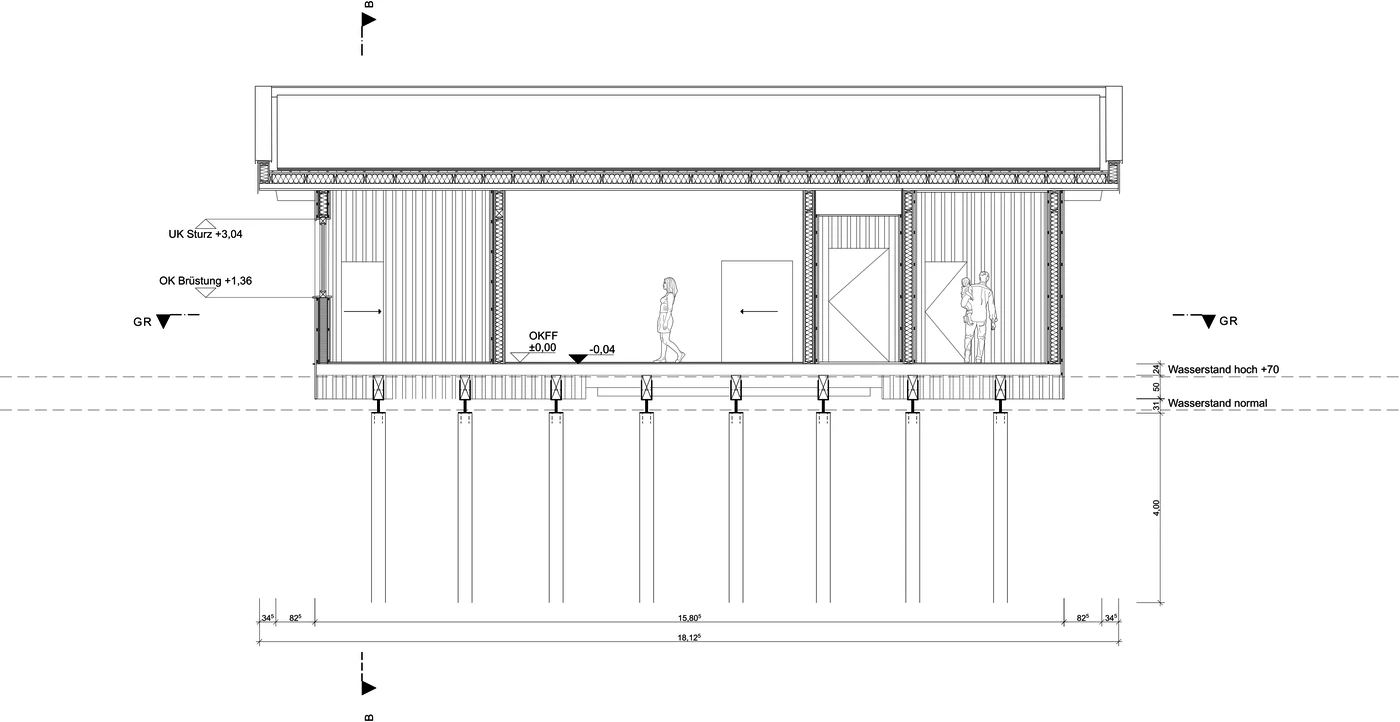
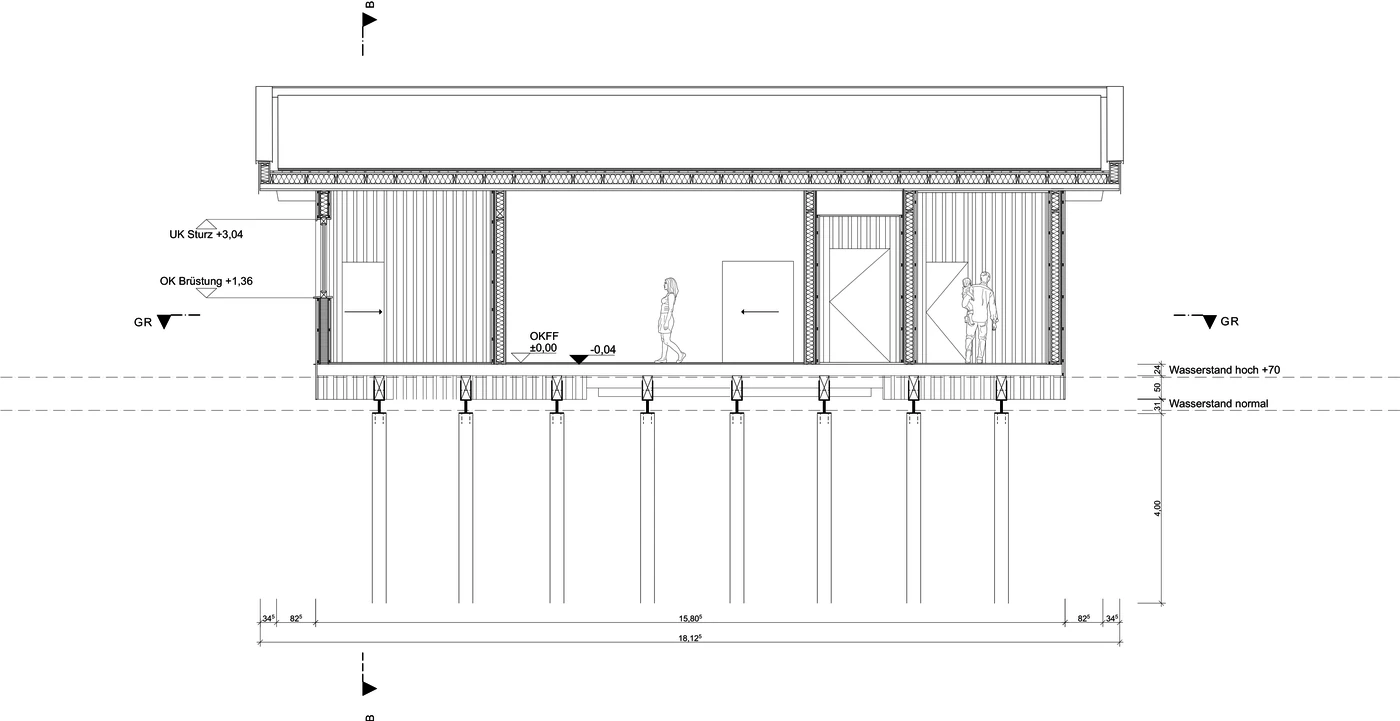
Pläne maßstabstreu zueinander, Maßstabsleisten, Verbindungsdetail auf Bildschirmhöhe

diff --git a/p/seepferdchen.html b/p/seepferdchen.html
@@ -6,7 +6,7 @@
 <title>Water Rescue Station “See Horse” · RISTL.DESIGNBUERO</title>
 <meta name="description" content="A timber rescue station on stilts, built to rise with the lake.">
 <link rel="icon" type="image/svg+xml" href="../favicon.svg">
-<link rel="stylesheet" href="../style.css?v=12">
+<link rel="stylesheet" href="../style.css?v=13">
 </head>
 <body>
 <header class="top">
@@ -33,22 +33,22 @@
 <figure><a class="zoom" href="../img/seepferdchen/sued-gross.webp"><img src="../img/seepferdchen/sued-1400.webp" srcset="../img/seepferdchen/sued-1400.webp 1400w, ../img/seepferdchen/sued-2800.webp 2800w" sizes="(max-width: 520px) 100vw, (max-width: 900px) 46vw, 32vw" width="1400" height="665" alt="Water Rescue Station “See Horse”, visualisations, south elevation" loading="lazy" decoding="async"></a><figcaption>South elevation</figcaption></figure>
 <figure><a class="zoom" href="../img/seepferdchen/west-gross.webp"><img src="../img/seepferdchen/west-1400.webp" srcset="../img/seepferdchen/west-1400.webp 1400w, ../img/seepferdchen/west-2800.webp 2800w" sizes="(max-width: 520px) 100vw, (max-width: 900px) 46vw, 32vw" width="1400" height="665" alt="Water Rescue Station “See Horse”, visualisations, west elevation" loading="lazy" decoding="async"></a><figcaption>West elevation</figcaption></figure>
 </div></section>
-<section class="sek"><h2>Floor plans</h2><div class="inhalt raster">
+<section class="sek"><h2>Floor plans</h2><div class="inhalt raster massstab">
 <figure><a class="zoom" href="../img/seepferdchen/lageplan-gross.webp"><img src="../img/seepferdchen/lageplan-1400.webp" srcset="../img/seepferdchen/lageplan-1400.webp 1400w, ../img/seepferdchen/lageplan-2800.webp 2800w" sizes="(max-width: 520px) 100vw, (max-width: 900px) 46vw, 32vw" width="1400" height="957" alt="Water Rescue Station “See Horse”, floor plans, site plan" loading="lazy" decoding="async"></a><figcaption>Site plan</figcaption></figure>
-<figure><a class="zoom" href="../img/seepferdchen/grundriss100-gross.webp"><img src="../img/seepferdchen/grundriss100-1400.webp" srcset="../img/seepferdchen/grundriss100-1400.webp 1400w, ../img/seepferdchen/grundriss100-2800.webp 2800w" sizes="(max-width: 520px) 100vw, (max-width: 900px) 46vw, 32vw" width="1400" height="851" alt="Water Rescue Station “See Horse”, floor plans, floor plan, 1:100" loading="lazy" decoding="async"></a><figcaption>Floor plan, 1:100</figcaption></figure>
-<figure><a class="zoom" href="../img/seepferdchen/grundriss50-gross.webp"><img src="../img/seepferdchen/grundriss50-1400.webp" srcset="../img/seepferdchen/grundriss50-1400.webp 1400w, ../img/seepferdchen/grundriss50-2800.webp 2800w" sizes="(max-width: 520px) 100vw, (max-width: 900px) 46vw, 32vw" width="1400" height="1040" alt="Water Rescue Station “See Horse”, floor plans, floor plan, 1:50" loading="lazy" decoding="async"></a><figcaption>Floor plan, 1:50</figcaption></figure>
+<figure class="mass" style="--w:43.72%"><a class="zoom" href="../img/seepferdchen/grundriss100-gross.webp"><img src="../img/seepferdchen/grundriss100-1400.webp" srcset="../img/seepferdchen/grundriss100-1400.webp 1400w, ../img/seepferdchen/grundriss100-2800.webp 2800w" sizes="(max-width: 520px) 100vw, (max-width: 900px) 46vw, 32vw" width="1400" height="851" alt="Water Rescue Station “See Horse”, floor plans, floor plan, 1:100" loading="lazy" decoding="async"></a><span class="leiste" aria-label="Scale bar, 5 m"><i style="width:8.41%"></i>5 m</span><figcaption>Floor plan, 1:100</figcaption></figure>
+<figure class="mass" style="--w:92.96%"><a class="zoom" href="../img/seepferdchen/grundriss50-gross.webp"><img src="../img/seepferdchen/grundriss50-1400.webp" srcset="../img/seepferdchen/grundriss50-1400.webp 1400w, ../img/seepferdchen/grundriss50-2800.webp 2800w" sizes="(max-width: 520px) 100vw, (max-width: 900px) 46vw, 32vw" width="1400" height="1036" alt="Water Rescue Station “See Horse”, floor plans, floor plan, 1:50" loading="lazy" decoding="async"></a><span class="leiste" aria-label="Scale bar, 5 m"><i style="width:16.83%"></i>5 m</span><figcaption>Floor plan, 1:50</figcaption></figure>
 </div></section>
-<section class="sek"><h2>Sections</h2><div class="inhalt raster">
-<figure><a class="zoom" href="../img/seepferdchen/schnitt-aa-gross.webp"><img src="../img/seepferdchen/schnitt-aa-1400.webp" srcset="../img/seepferdchen/schnitt-aa-1400.webp 1400w, ../img/seepferdchen/schnitt-aa-2800.webp 2800w" sizes="(max-width: 520px) 100vw, (max-width: 900px) 46vw, 32vw" width="1400" height="722" alt="Water Rescue Station “See Horse”, sections, section a–a, 1:50" loading="lazy" decoding="async"></a><figcaption>Section A–A, 1:50</figcaption></figure>
-<figure><a class="zoom" href="../img/seepferdchen/schnitt-bb-gross.webp"><img src="../img/seepferdchen/schnitt-bb-1400.webp" srcset="../img/seepferdchen/schnitt-bb-1400.webp 1400w, ../img/seepferdchen/schnitt-bb-2800.webp 2800w" sizes="(max-width: 520px) 100vw, (max-width: 900px) 46vw, 32vw" width="1400" height="651" alt="Water Rescue Station “See Horse”, sections, section b–b, 1:50" loading="lazy" decoding="async"></a><figcaption>Section B–B, 1:50</figcaption></figure>
+<section class="sek"><h2>Sections</h2><div class="inhalt raster massstab">
+<figure class="mass" style="--w:99.37%"><a class="zoom" href="../img/seepferdchen/schnitt-aa-gross.webp"><img src="../img/seepferdchen/schnitt-aa-1400.webp" srcset="../img/seepferdchen/schnitt-aa-1400.webp 1400w, ../img/seepferdchen/schnitt-aa-2800.webp 2800w" sizes="(max-width: 520px) 100vw, (max-width: 900px) 46vw, 32vw" width="1400" height="721" alt="Water Rescue Station “See Horse”, sections, section a–a, 1:50" loading="lazy" decoding="async"></a><span class="leiste" aria-label="Scale bar, 5 m"><i style="width:16.83%"></i>5 m</span><figcaption>Section A–A, 1:50</figcaption></figure>
+<figure class="mass" style="--w:100.00%"><a class="zoom" href="../img/seepferdchen/schnitt-bb-gross.webp"><img src="../img/seepferdchen/schnitt-bb-1400.webp" srcset="../img/seepferdchen/schnitt-bb-1400.webp 1400w, ../img/seepferdchen/schnitt-bb-2800.webp 2800w" sizes="(max-width: 520px) 100vw, (max-width: 900px) 46vw, 32vw" width="1400" height="650" alt="Water Rescue Station “See Horse”, sections, section b–b, 1:50" loading="lazy" decoding="async"></a><span class="leiste" aria-label="Scale bar, 5 m"><i style="width:16.83%"></i>5 m</span><figcaption>Section B–B, 1:50</figcaption></figure>
 </div></section>
-<section class="sek"><h2>Details</h2><div class="inhalt raster">
-<figure><a class="zoom" href="../img/seepferdchen/wand-gross.webp"><img src="../img/seepferdchen/wand-1400.webp" srcset="../img/seepferdchen/wand-1400.webp 1400w, ../img/seepferdchen/wand-2800.webp 2800w" sizes="(max-width: 520px) 100vw, (max-width: 900px) 46vw, 32vw" width="1400" height="1135" alt="Water Rescue Station “See Horse”, details, wall assembly" loading="lazy" decoding="async"></a><figcaption>Wall assembly</figcaption></figure>
-<figure><a class="zoom" href="../img/seepferdchen/treppe-gross.webp"><img src="../img/seepferdchen/treppe-1400.webp" srcset="../img/seepferdchen/treppe-1400.webp 1400w, ../img/seepferdchen/treppe-2800.webp 2800w" sizes="(max-width: 520px) 100vw, (max-width: 900px) 46vw, 32vw" width="1400" height="1416" alt="Water Rescue Station “See Horse”, details, stair detail, 1:5" loading="lazy" decoding="async"></a><figcaption>Stair detail, 1:5</figcaption></figure>
+<section class="sek"><h2>Details</h2><div class="inhalt raster massstab">
+<figure class="mass" style="--w:83.40%"><a class="zoom" href="../img/seepferdchen/wand-gross.webp"><img src="../img/seepferdchen/wand-1400.webp" srcset="../img/seepferdchen/wand-1400.webp 1400w, ../img/seepferdchen/wand-2800.webp 2800w" sizes="(max-width: 520px) 100vw, (max-width: 900px) 46vw, 32vw" width="1400" height="1134" alt="Water Rescue Station “See Horse”, details, wall assembly, 1:20" loading="lazy" decoding="async"></a><span class="leiste" aria-label="Scale bar, 2 m"><i style="width:16.83%"></i>2 m</span><figcaption>Wall assembly, 1:20</figcaption></figure>
+<figure class="mass" style="--w:94.47%"><a class="zoom" href="../img/seepferdchen/treppe-gross.webp"><img src="../img/seepferdchen/treppe-1400.webp" srcset="../img/seepferdchen/treppe-1400.webp 1400w, ../img/seepferdchen/treppe-2800.webp 2800w" sizes="(max-width: 520px) 100vw, (max-width: 900px) 46vw, 32vw" width="1400" height="1413" alt="Water Rescue Station “See Horse”, details, stair detail, 1:5" loading="lazy" decoding="async"></a><span class="leiste" aria-label="Scale bar, 50 cm"><i style="width:16.83%"></i>50 cm</span><figcaption>Stair detail, 1:5</figcaption></figure>
 </div></section>
-<section class="sek"><h2>Structure</h2><div class="inhalt raster">
+<section class="sek"><h2>Structure</h2><div class="inhalt raster massstab">
 <figure class=breit><a class="zoom" href="../img/seepferdchen/tragwerk-gross.webp"><img src="../img/seepferdchen/tragwerk-1400.webp" srcset="../img/seepferdchen/tragwerk-1400.webp 1400w, ../img/seepferdchen/tragwerk-2800.webp 2800w" sizes="(max-width: 900px) 100vw, 64vw" width="1400" height="914" alt="Water Rescue Station “See Horse”, structure, structural system" loading="lazy" decoding="async"></a><figcaption>Structural system</figcaption></figure>
-<figure><a class="zoom" href="../img/seepferdchen/konstruktion-gross.webp"><img src="../img/seepferdchen/konstruktion-1400.webp" srcset="../img/seepferdchen/konstruktion-1400.webp 1400w, ../img/seepferdchen/konstruktion-2800.webp 2800w" sizes="(max-width: 520px) 100vw, (max-width: 900px) 46vw, 32vw" width="1400" height="1016" alt="Water Rescue Station “See Horse”, structure, construction plan, 1:50" loading="lazy" decoding="async"></a><figcaption>Construction plan, 1:50</figcaption></figure>
+<figure class="mass" style="--w:93.46%"><a class="zoom" href="../img/seepferdchen/konstruktion-gross.webp"><img src="../img/seepferdchen/konstruktion-1400.webp" srcset="../img/seepferdchen/konstruktion-1400.webp 1400w, ../img/seepferdchen/konstruktion-2800.webp 2800w" sizes="(max-width: 520px) 100vw, (max-width: 900px) 46vw, 32vw" width="1400" height="1016" alt="Water Rescue Station “See Horse”, structure, construction plan, 1:50" loading="lazy" decoding="async"></a><span class="leiste" aria-label="Scale bar, 5 m"><i style="width:16.83%"></i>5 m</span><figcaption>Construction plan, 1:50</figcaption></figure>
 </div></section>
 <section class="sek"><h2>Model 1:50</h2><div class="inhalt raster hoch">
 <figure><a class="zoom" href="../img/seepferdchen/modell-1-gross.webp"><img src="../img/seepferdchen/modell-1-1400.webp" srcset="../img/seepferdchen/modell-1-1400.webp 1400w, ../img/seepferdchen/modell-1-2800.webp 2800w" sizes="(max-width: 520px) 100vw, (max-width: 900px) 46vw, 32vw" width="1400" height="1867" alt="Water Rescue Station “See Horse”, model 1:50" loading="lazy" decoding="async"></a></figure>

diff --git a/p/watercube.html b/p/watercube.html
@@ -6,7 +6,7 @@
 <title>RomeRainRoom · RISTL.DESIGNBUERO</title>
 <meta name="description" content="Watercube. A timber lattice, 7 × 7 × 7 m, that collects rain and cools the air around it.">
 <link rel="icon" type="image/svg+xml" href="../favicon.svg">
-<link rel="stylesheet" href="../style.css?v=12">
+<link rel="stylesheet" href="../style.css?v=13">
 </head>
 <body>
 <header class="top">
@@ -31,14 +31,14 @@
 <figure><a class="zoom" href="../img/watercube/innen-nacht-gross.webp"><img src="../img/watercube/innen-nacht-1400.webp" srcset="../img/watercube/innen-nacht-1400.webp 1400w, ../img/watercube/innen-nacht-2800.webp 2800w" sizes="(max-width: 520px) 100vw, (max-width: 900px) 46vw, 32vw" width="1400" height="977" alt="RomeRainRoom, visualisations, interior at night" loading="lazy" decoding="async"></a><figcaption>Interior at night</figcaption></figure>
 <figure><a class="zoom" href="../img/watercube/innen-tag-gross.webp"><img src="../img/watercube/innen-tag-1400.webp" srcset="../img/watercube/innen-tag-1400.webp 1400w, ../img/watercube/innen-tag-2800.webp 2800w" sizes="(max-width: 520px) 100vw, (max-width: 900px) 46vw, 32vw" width="1400" height="971" alt="RomeRainRoom, visualisations, interior by day" loading="lazy" decoding="async"></a><figcaption>Interior by day</figcaption></figure>
 </div></section>
-<section class="sek"><h2>Floor plans</h2><div class="inhalt raster quadrat">
+<section class="sek"><h2>Floor plans</h2><div class="inhalt raster massstab">
 <figure class=breit><a class="zoom" href="../img/watercube/lage-gross.webp"><img src="../img/watercube/lage-1400.webp" srcset="../img/watercube/lage-1400.webp 1400w, ../img/watercube/lage-2800.webp 2800w" sizes="(max-width: 900px) 100vw, 64vw" width="1400" height="989" alt="RomeRainRoom, floor plans, site plan" loading="lazy" decoding="async"></a><figcaption>Site plan</figcaption></figure>
-<figure><a class="zoom" href="../img/watercube/ebene-0-gross.webp"><img src="../img/watercube/ebene-0-1400.webp" srcset="../img/watercube/ebene-0-1400.webp 1400w, ../img/watercube/ebene-0-2800.webp 1800w" sizes="(max-width: 520px) 100vw, (max-width: 900px) 46vw, 32vw" width="1400" height="1386" alt="RomeRainRoom, floor plans, level 0, 1:75" loading="lazy" decoding="async"></a><figcaption>Level 0, 1:75</figcaption></figure>
-<figure><a class="zoom" href="../img/watercube/ebene-1-gross.webp"><img src="../img/watercube/ebene-1-1400.webp" srcset="../img/watercube/ebene-1-1400.webp 1400w, ../img/watercube/ebene-1-2800.webp 1800w" sizes="(max-width: 520px) 100vw, (max-width: 900px) 46vw, 32vw" width="1400" height="1386" alt="RomeRainRoom, floor plans, level 1, 1:75" loading="lazy" decoding="async"></a><figcaption>Level 1, 1:75</figcaption></figure>
+<figure class="mass" style="--w:100.00%"><a class="zoom" href="../img/watercube/ebene-0-gross.webp"><img src="../img/watercube/ebene-0-1400.webp" srcset="../img/watercube/ebene-0-1400.webp 1400w, ../img/watercube/ebene-0-2800.webp 1800w" sizes="(max-width: 520px) 100vw, (max-width: 900px) 46vw, 32vw" width="1400" height="1386" alt="RomeRainRoom, floor plans, level 0, 1:75" loading="lazy" decoding="async"></a><span class="leiste" aria-label="Scale bar, 2 m"><i style="width:22.45%"></i>2 m</span><figcaption>Level 0, 1:75</figcaption></figure>
+<figure class="mass" style="--w:100.00%"><a class="zoom" href="../img/watercube/ebene-1-gross.webp"><img src="../img/watercube/ebene-1-1400.webp" srcset="../img/watercube/ebene-1-1400.webp 1400w, ../img/watercube/ebene-1-2800.webp 1800w" sizes="(max-width: 520px) 100vw, (max-width: 900px) 46vw, 32vw" width="1400" height="1386" alt="RomeRainRoom, floor plans, level 1, 1:75" loading="lazy" decoding="async"></a><span class="leiste" aria-label="Scale bar, 2 m"><i style="width:22.45%"></i>2 m</span><figcaption>Level 1, 1:75</figcaption></figure>
 </div></section>
-<section class="sek"><h2>Sections</h2><div class="inhalt raster quadrat">
-<figure><a class="zoom" href="../img/watercube/schnitt-aa-gross.webp"><img src="../img/watercube/schnitt-aa-1400.webp" srcset="../img/watercube/schnitt-aa-1400.webp 1400w, ../img/watercube/schnitt-aa-2800.webp 1800w" sizes="(max-width: 520px) 100vw, (max-width: 900px) 46vw, 32vw" width="1400" height="1386" alt="RomeRainRoom, sections, section a–a, 1:75" loading="lazy" decoding="async"></a><figcaption>Section A–A, 1:75</figcaption></figure>
-<figure><a class="zoom" href="../img/watercube/schnitt-bb-gross.webp"><img src="../img/watercube/schnitt-bb-1400.webp" srcset="../img/watercube/schnitt-bb-1400.webp 1400w, ../img/watercube/schnitt-bb-2800.webp 1800w" sizes="(max-width: 520px) 100vw, (max-width: 900px) 46vw, 32vw" width="1400" height="1386" alt="RomeRainRoom, sections, section b–b, 1:75" loading="lazy" decoding="async"></a><figcaption>Section B–B, 1:75</figcaption></figure>
+<section class="sek"><h2>Sections</h2><div class="inhalt raster massstab">
+<figure class="mass" style="--w:100.00%"><a class="zoom" href="../img/watercube/schnitt-aa-gross.webp"><img src="../img/watercube/schnitt-aa-1400.webp" srcset="../img/watercube/schnitt-aa-1400.webp 1400w, ../img/watercube/schnitt-aa-2800.webp 1800w" sizes="(max-width: 520px) 100vw, (max-width: 900px) 46vw, 32vw" width="1400" height="1386" alt="RomeRainRoom, sections, section a–a, 1:75" loading="lazy" decoding="async"></a><span class="leiste" aria-label="Scale bar, 2 m"><i style="width:22.45%"></i>2 m</span><figcaption>Section A–A, 1:75</figcaption></figure>
+<figure class="mass" style="--w:100.00%"><a class="zoom" href="../img/watercube/schnitt-bb-gross.webp"><img src="../img/watercube/schnitt-bb-1400.webp" srcset="../img/watercube/schnitt-bb-1400.webp 1400w, ../img/watercube/schnitt-bb-2800.webp 1800w" sizes="(max-width: 520px) 100vw, (max-width: 900px) 46vw, 32vw" width="1400" height="1386" alt="RomeRainRoom, sections, section b–b, 1:75" loading="lazy" decoding="async"></a><span class="leiste" aria-label="Scale bar, 2 m"><i style="width:22.45%"></i>2 m</span><figcaption>Section B–B, 1:75</figcaption></figure>
 </div></section>
 <section class="sek"><h2>Details</h2><div class="inhalt raster frei">
 <figure><a class="zoom" href="../img/watercube/verbindung-gross.webp"><img src="../img/watercube/verbindung-1400.webp" srcset="../img/watercube/verbindung-1400.webp 960w, ../img/watercube/verbindung-2800.webp 960w" sizes="(max-width: 520px) 100vw, (max-width: 900px) 46vw, 32vw" width="960" height="2384" alt="RomeRainRoom, details, construction detail" loading="lazy" decoding="async"></a><figcaption>Construction detail</figcaption></figure>

diff --git a/style.css b/style.css
@@ -95,8 +95,17 @@ figcaption{margin-top:.8em;font-size:var(--klein);line-height:1.4;letter-spacing
 .raster.fuell figure:not(.breit) .zoom{aspect-ratio:4/3}
 .raster.fuell figure:not(.breit) .zoom img{object-fit:cover}
 .raster.quadrat figure:not(.breit) .zoom{aspect-ratio:1}
-.raster.frei figure:not(.breit) .zoom{aspect-ratio:auto}
-.raster.frei figure:not(.breit) .zoom img{height:auto}
+/* einzelnes Hochformat: nie hoeher als der Bildschirm */
+.raster.frei figure:not(.breit) .zoom{aspect-ratio:auto;width:max-content;max-width:100%}
+.raster.frei figure:not(.breit) .zoom img{width:auto;height:auto;max-width:100%;max-height:76vh;max-height:76svh}
+/* massstabstreu: jede Zeichnung in ihrer Papiergroesse relativ zu den anderen, Boden auf einer Linie */
+.raster.massstab{align-items:end}
+.raster.massstab figure{min-width:0}
+.raster.massstab .mass .zoom{aspect-ratio:auto;width:var(--w)}
+.raster.massstab .mass .zoom img{width:100%;height:auto;object-fit:fill}
+.leiste{display:flex;align-items:flex-end;gap:.7em;margin-top:1.1em;font-size:var(--klein);line-height:1;letter-spacing:.012em;color:var(--soft)}
+.leiste i{display:block;flex:none;height:5px;border:1px solid var(--ink);border-top:0}
+.leiste+figcaption{margin-top:.55em}
 .images .portrait{width:calc((100% - 11 * var(--spalt)) / 12 * 5 + 4 * var(--spalt));margin-left:calc((100% - 11 * var(--spalt)) / 12 * 3 + 3 * var(--spalt))}
 .weg div{display:grid;grid-template-columns:7.5em 1fr;gap:var(--spalt);padding:.32em 0;max-width:40em}
 .weg dt{color:var(--soft);font-size:var(--klein);letter-spacing:.012em;padding-top:.2em}

diff --git a/datenschutz.html b/datenschutz.html
@@ -6,7 +6,7 @@
 <title>Datenschutz · RISTL.DESIGNBUERO</title>
 <meta name="description" content="Datenschutz">
 <link rel="icon" type="image/svg+xml" href="favicon.svg">
-<link rel="stylesheet" href="style.css?v=12">
+<link rel="stylesheet" href="style.css?v=13">
 </head>
 <body>
 <header class="top">
@@ -17,8 +17,7 @@
   </nav>
 </header>
 <main>
-<section class="text legal">
-  <section class="legal wrap">
+<section class="text legal"><section class="legal wrap">
     <h1>Datenschutzerklärung</h1>
 
     <h2>1. Allgemeines</h2>

diff --git a/impressum.html b/impressum.html
@@ -6,7 +6,7 @@
 <title>Impressum · RISTL.DESIGNBUERO</title>
 <meta name="description" content="Impressum">
 <link rel="icon" type="image/svg+xml" href="favicon.svg">
-<link rel="stylesheet" href="style.css?v=12">
+<link rel="stylesheet" href="style.css?v=13">
 </head>
 <body>
 <header class="top">
@@ -17,8 +17,7 @@
   </nav>
 </header>
 <main>
-<section class="text legal">
-  <section class="legal wrap">
+<section class="text legal"><section class="legal wrap">
     <h1>Impressum</h1>
 
     <h2>Angaben gemäß § 5 DDG</h2>

diff --git a/index.html b/index.html
@@ -6,7 +6,7 @@
 <title>RISTL.DESIGNBUERO · Pascal Ristl</title>
 <meta name="description" content="Portfolio of Pascal Ristl. Interior architecture and design, München.">
 <link rel="icon" type="image/svg+xml" href="favicon.svg">
-<link rel="stylesheet" href="style.css?v=12">
+<link rel="stylesheet" href="style.css?v=13">
 </head>
 <body class="home">
 <header class="top">

diff --git a/about.html b/about.html
@@ -6,7 +6,7 @@
 <title>About · RISTL.DESIGNBUERO</title>
 <meta name="description" content="Pascal Ristl, trained cabinetmaker and interior architecture student in München.">
 <link rel="icon" type="image/svg+xml" href="favicon.svg">
-<link rel="stylesheet" href="style.css?v=12">
+<link rel="stylesheet" href="style.css?v=13">
 </head>
 <body>
 <header class="top">

diff --git a/404.html b/404.html
@@ -7,7 +7,7 @@
 <title>Not found · RISTL.DESIGNBUERO</title>
 <meta name="description" content="Page not found.">
 <link rel="icon" type="image/svg+xml" href="/favicon.svg">
-<link rel="stylesheet" href="/style.css?v=12">
+<link rel="stylesheet" href="/style.css?v=13">
 </head>
 <body>
 <header class="top">
